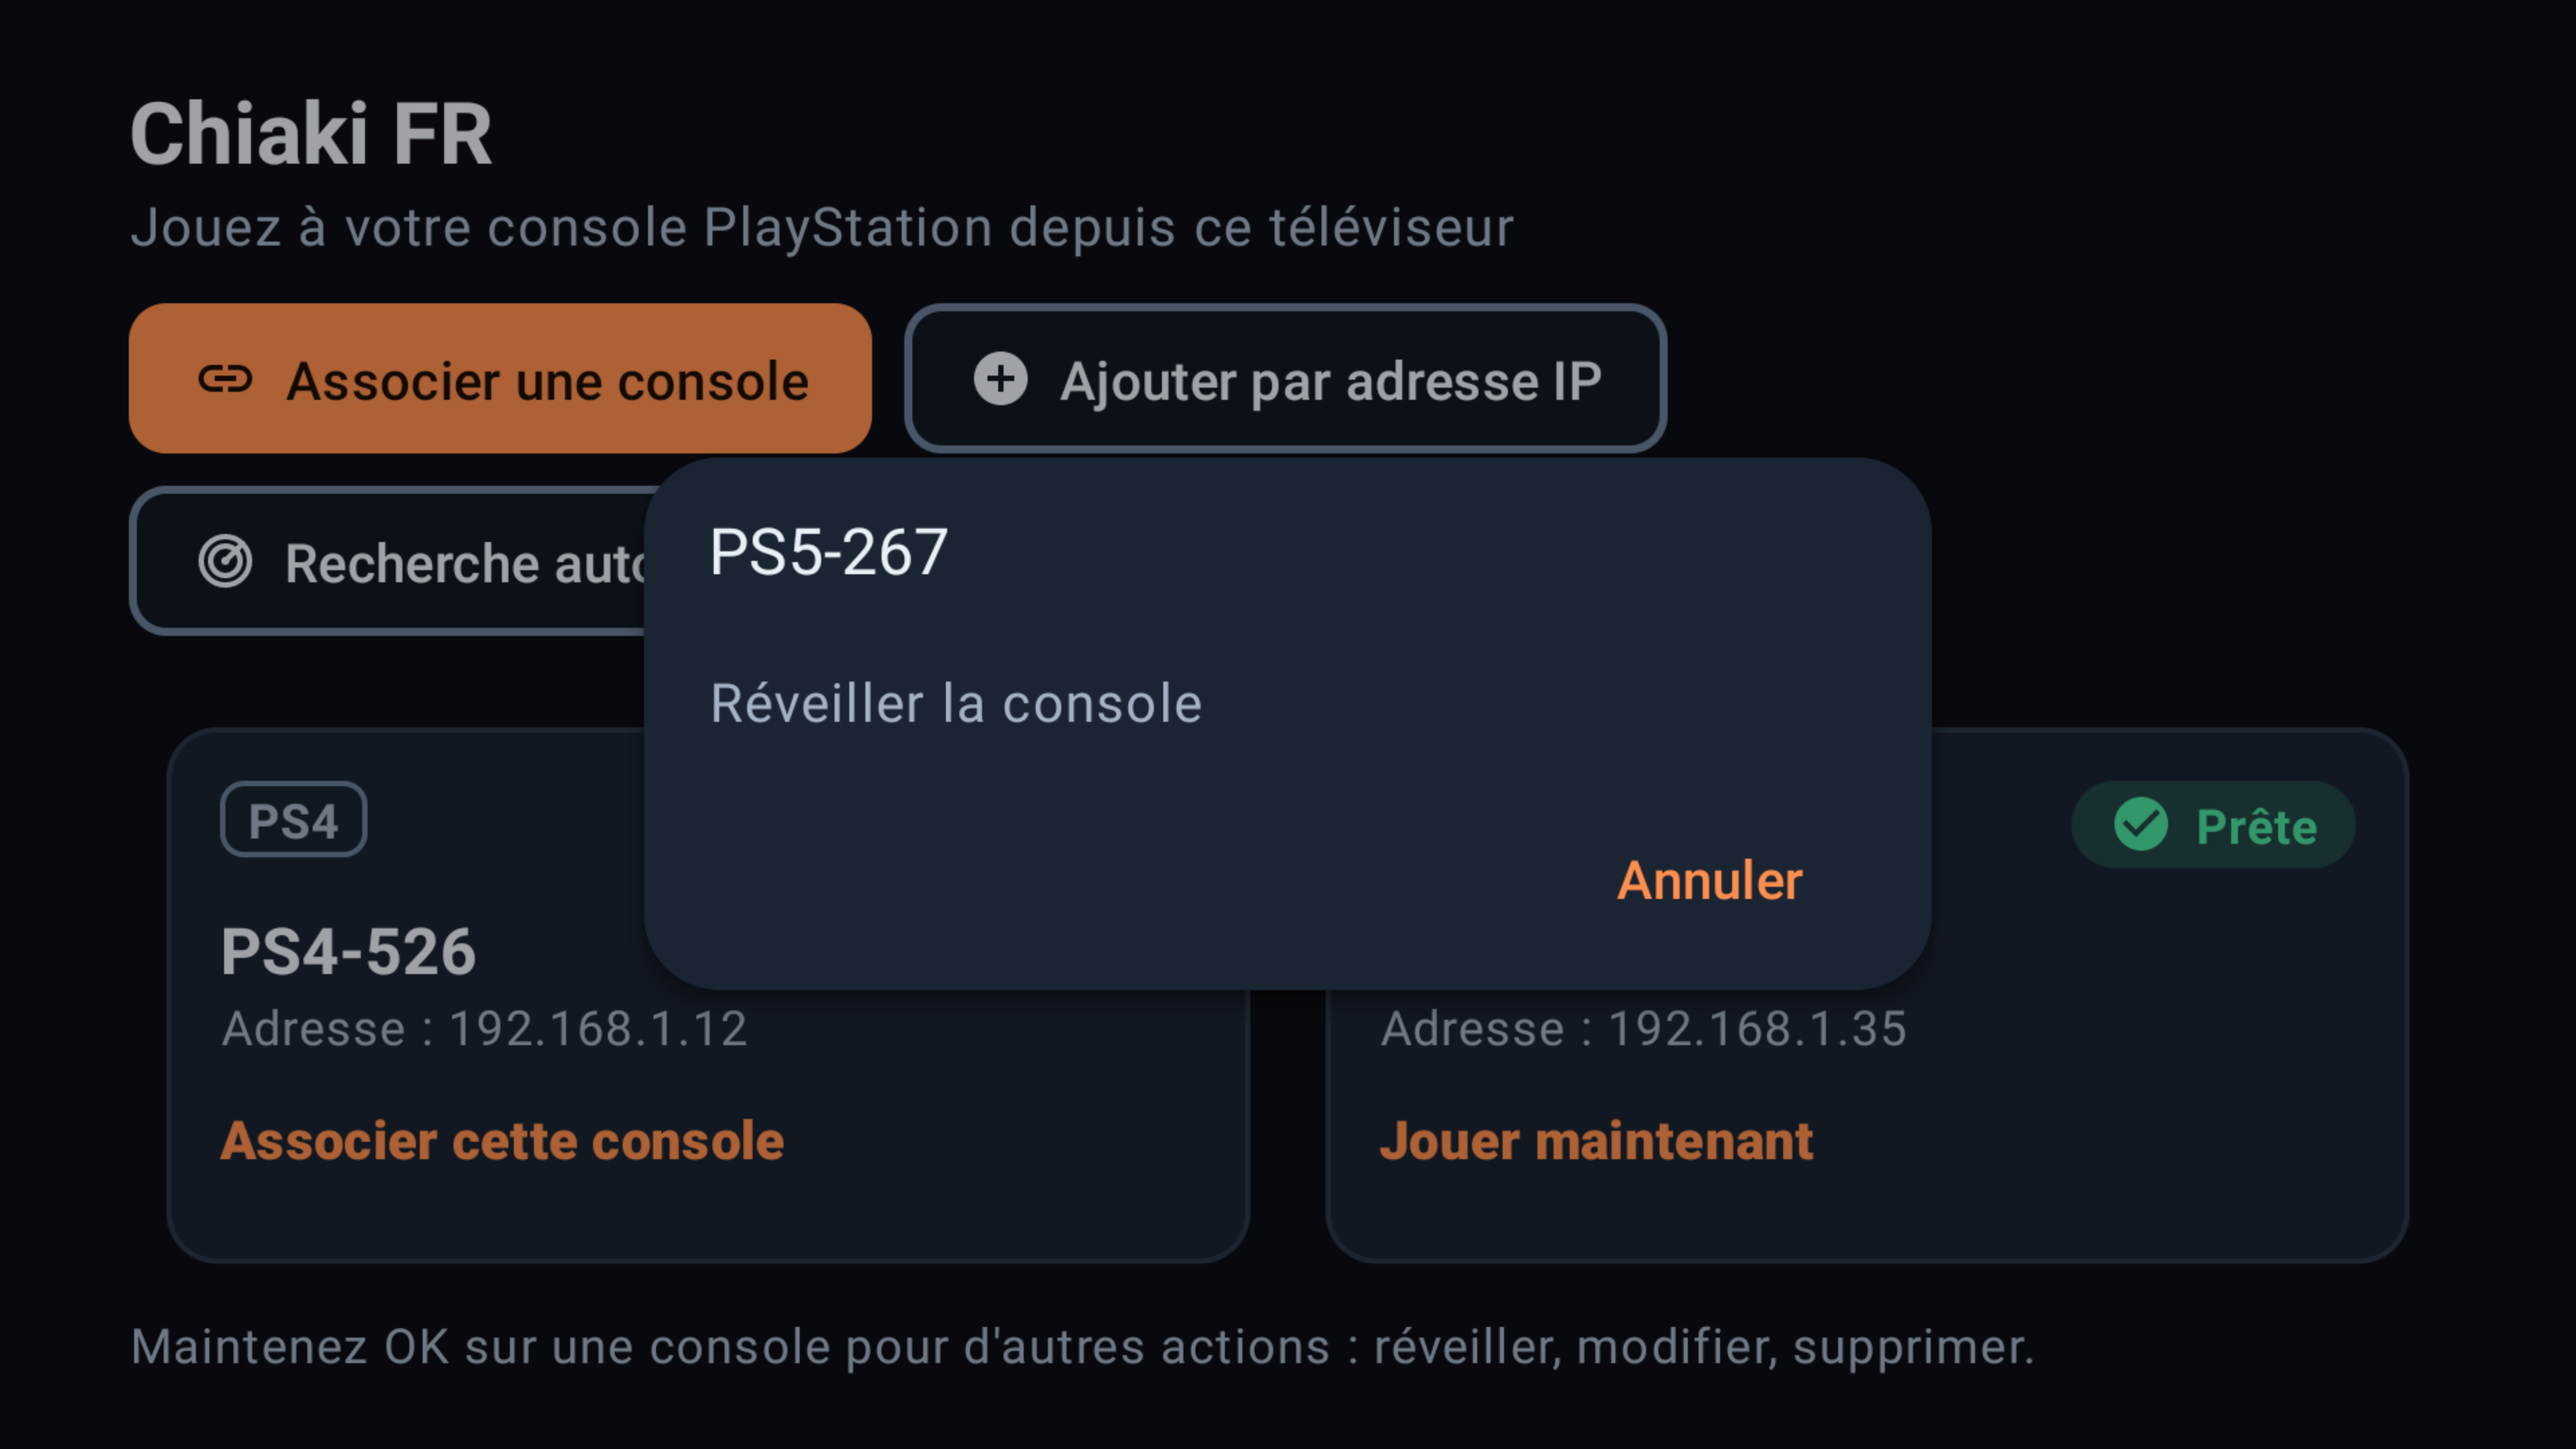
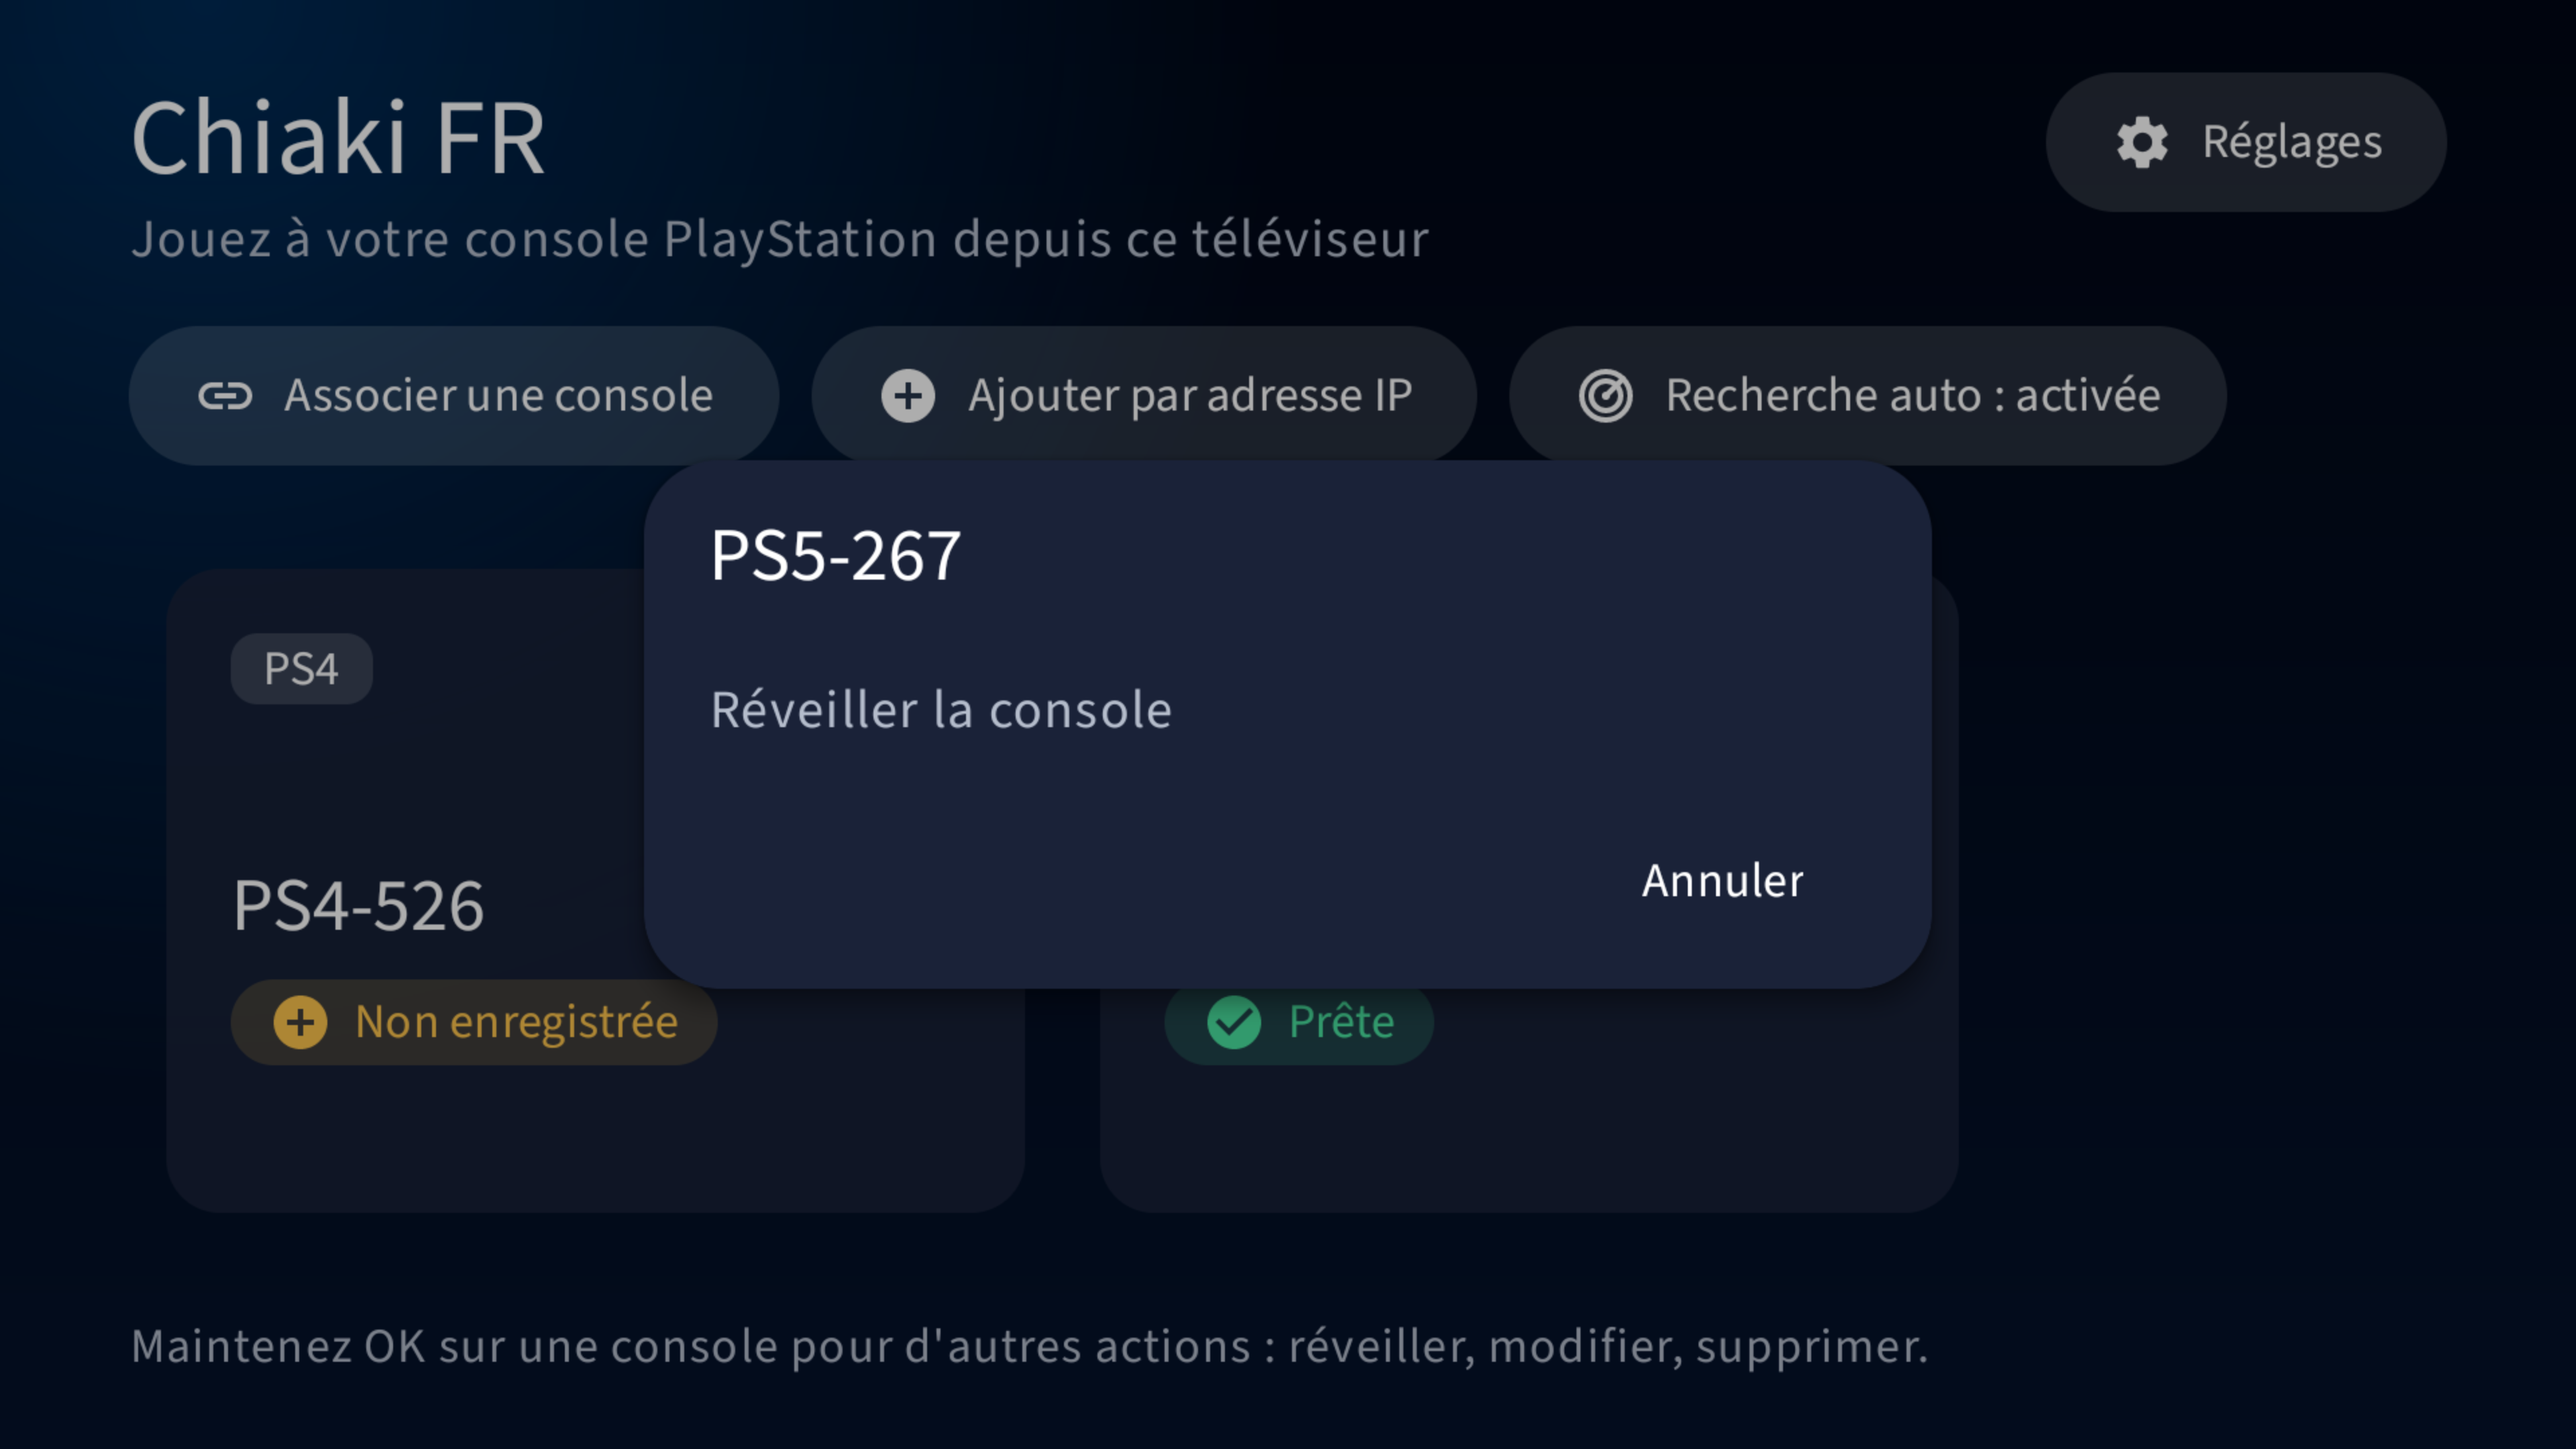
Keep focus inside the console row and document the fork
D-pad left on the first tile and right on the last one no longer jump to
the header. Add a CHANGELOG, a fork section in the README and refreshed
screenshots of the PS5-style interface.

diff --git a/android/app/src/main/java/com/metallic/chiaki/main/MainActivity.kt b/android/app/src/main/java/com/metallic/chiaki/main/MainActivity.kt
@@ -60,7 +60,20 @@ class MainActivity : TvActivity()
 		val recyclerViewAdapter = DisplayHostRecyclerViewAdapter(this::hostTriggered, this::showHostActions)
 		binding.hostsRecyclerView.adapter = recyclerViewAdapter
 		// One horizontal row of tiles, like a game row
-		binding.hostsRecyclerView.layoutManager = LinearLayoutManager(this, RecyclerView.HORIZONTAL, false)
+		binding.hostsRecyclerView.layoutManager = object: LinearLayoutManager(this, RecyclerView.HORIZONTAL, false)
+		{
+			// Left on the first tile and right on the last one stay put, instead of jumping to the header buttons
+			override fun onInterceptFocusSearch(focused: View, direction: Int): View?
+			{
+				val position = getPosition(findContainingItemView(focused) ?: return null)
+				return when
+				{
+					direction == View.FOCUS_LEFT && position == 0 -> focused
+					direction == View.FOCUS_RIGHT && position == itemCount - 1 -> focused
+					else -> null
+				}
+			}
+		}
 		// A cross-fade replaces the view holder, and the focused card would lose the focus with it
 		(binding.hostsRecyclerView.itemAnimator as? SimpleItemAnimator)?.supportsChangeAnimations = false
 		viewModel.displayHosts.observe(this, Observer {

diff --git a/CHANGELOG.md b/CHANGELOG.md
@@ -1,0 +1,26 @@
+# Changelog
+
+All notable changes to Chiaki FR, the Android TV fork of chiaki-ng, are listed here.
+Versions follow the upstream chiaki-ng version with a `-fr.N` suffix.
+
+## 1.10.0-fr.1 - 2026-10-26
+
+### Added
+- Own application id `fr.beloucif.chiaki`, so the fork installs next to the original Chiaki.
+- arm64 build and a Docker toolchain (`scripts/android-docker/Dockerfile`).
+- French interface, plus 28 more languages with declared supported locales.
+- In-app PSN login that fills the account ID during pairing.
+- Full controller mapping, controller rumble, in-stream menu (statistics, display, resume, standby, quit) and a stats overlay.
+- OK long press on a console tile (remote or gamepad) opens its actions: wake, edit, delete.
+
+### Changed
+- Low-latency pipeline by default: low-latency MediaCodec keys (Nvidia included), newest-frame rendering, 3 ms input wait, Oboe game audio capped at 40 ms queued, 256 KB socket buffer, loss reporting for bitrate adaptation.
+- Interface restyled after the PS5 home screen: deep blue background, PlayStation-blue accent, white focus ring with glow, a horizontal row of console tiles, Source Sans 3 font. No Sony logo or asset is shipped.
+- Home header fits on one row (Settings moved to the top right) and tiles are 240 dp high, so they no longer overlap the hint on a 1080p TV.
+
+### Fixed
+- D-pad right on the last console tile, or left on the first, no longer jumps to the header buttons.
+
+### Known limits
+- Measured on an Nvidia Shield with a PS5 on Wi-Fi: 60 frames/s, 2 to 3 ms network latency, about 1.5 ms decoding, 0 % loss.
+- The OK long press is verified with a touch long press only; `adb input keyevent --longpress` releases too fast to test it.

diff --git a/README.md b/README.md
@@ -1,4 +1,24 @@
 
+## Chiaki FR (this fork)
+
+Android TV build of chiaki-ng tuned for the Nvidia Shield: French interface, PS5-style TV layout,
+low latency by default, full gamepad support and in-app PSN login. Changes are listed in
+[CHANGELOG.md](CHANGELOG.md), screenshots are in [docs/screenshots](docs/screenshots).
+
+![Home screen](docs/screenshots/01-accueil.png)
+
+Build the debug APK with the Docker toolchain, then install it over adb:
+
+```sh
+docker build -t chiaki-ng-build scripts/android-docker
+docker run --rm -v "$PWD":/src -v chiaki-gradle:/root/.gradle chiaki-ng-build ./gradlew --no-daemon assembleDebug
+adb install -r android/app/build/outputs/apk/debug/app-debug.apk
+```
+
+The rest of this README is the upstream chiaki-ng one.
+
+---
+
 ![chiaki-ng Logo](gui/res/chiaking-logo.svg)
 
 # [chiaki-ng](https://streetpea.github.io/chiaki-ng/)
